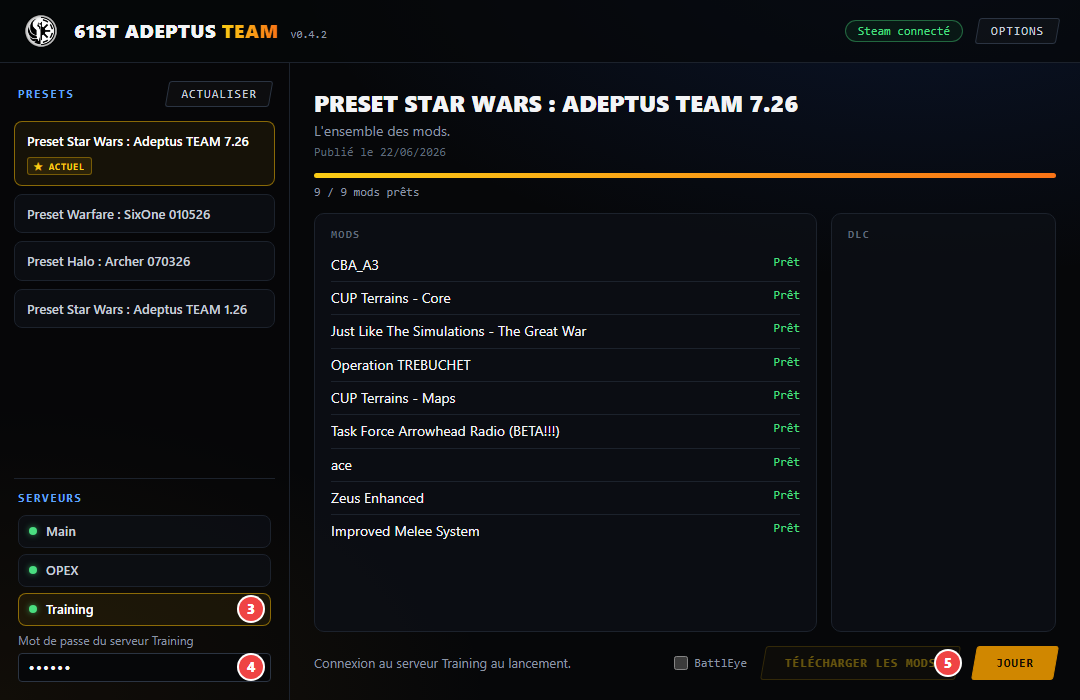
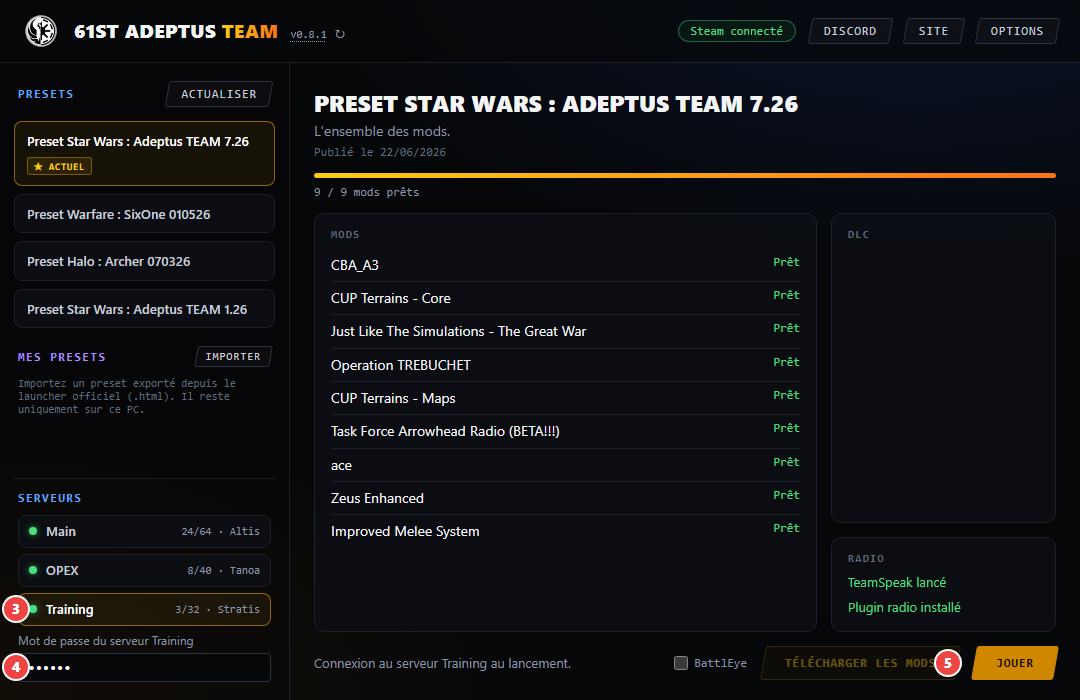
Met à jour le guide, ses captures et le journal pour la 0.8.1

diff --git a/README.md b/README.md
@@ -43,10 +43,11 @@ Laissez la case **BattlEye** décochée, sauf si un serveur l'exige.
 
 ## Bon à savoir
 
-- **Mises à jour :** le launcher se met à jour tout seul. Si le bouton **Mettre à jour** apparaît à côté du numéro de version, cliquez dessus une fois le jeu fermé.
+- **Mises à jour :** le launcher se met à jour tout seul au démarrage, ce qui peut prendre quelques secondes. Si le bouton **Mettre à jour** apparaît à côté du numéro de version, cliquez dessus une fois le jeu fermé. La flèche ↻ lance une vérification à tout moment.
 - **Langue :** le launcher existe aussi en anglais, dans **Options**.
 - **Radio :** si le preset utilise Task Force Radio, le launcher indique si TeamSpeak est lancé et si le plugin radio est installé. Le bouton **Installer le plugin** l'installe pour vous.
 - **Discord et site :** les boutons en haut de la fenêtre y mènent directement.
+- **Presets personnels :** la section **Mes presets** permet d'importer votre propre preset, exporté depuis le launcher officiel (fichier `.html`). Il reste uniquement sur votre PC.
 
 ## Nouveautés
 

diff --git a/CHANGELOG.md b/CHANGELOG.md
@@ -1,5 +1,9 @@
 # Journal des modifications
 
+## 0.8.1 — 07/11/2026
+- Changement de preset plus rapide : un preset inchangé sur le site s'ouvre sans être retéléchargé.
+- Démarrage plus léger : seuls les presets modifiés sur le site sont téléchargés, et en même temps.
+
 ## 0.8.0 — 07/11/2026
 - Presets locaux : importez votre propre preset depuis la section Mes presets. Il reste uniquement sur votre PC, et personne d'autre n'y a accès.
 

diff --git a/CHANGELOG.en.md b/CHANGELOG.en.md
@@ -1,5 +1,9 @@
 # Changelog
 
+## 0.8.1 — 07/11/2026
+- Faster preset switching: a preset unchanged on the site opens without being downloaded again.
+- Lighter startup: only presets changed on the site are downloaded, all at once.
+
 ## 0.8.0 — 07/11/2026
 - Local presets: import your own preset from the My presets section. It stays on your PC only, and nobody else can access it.
 
